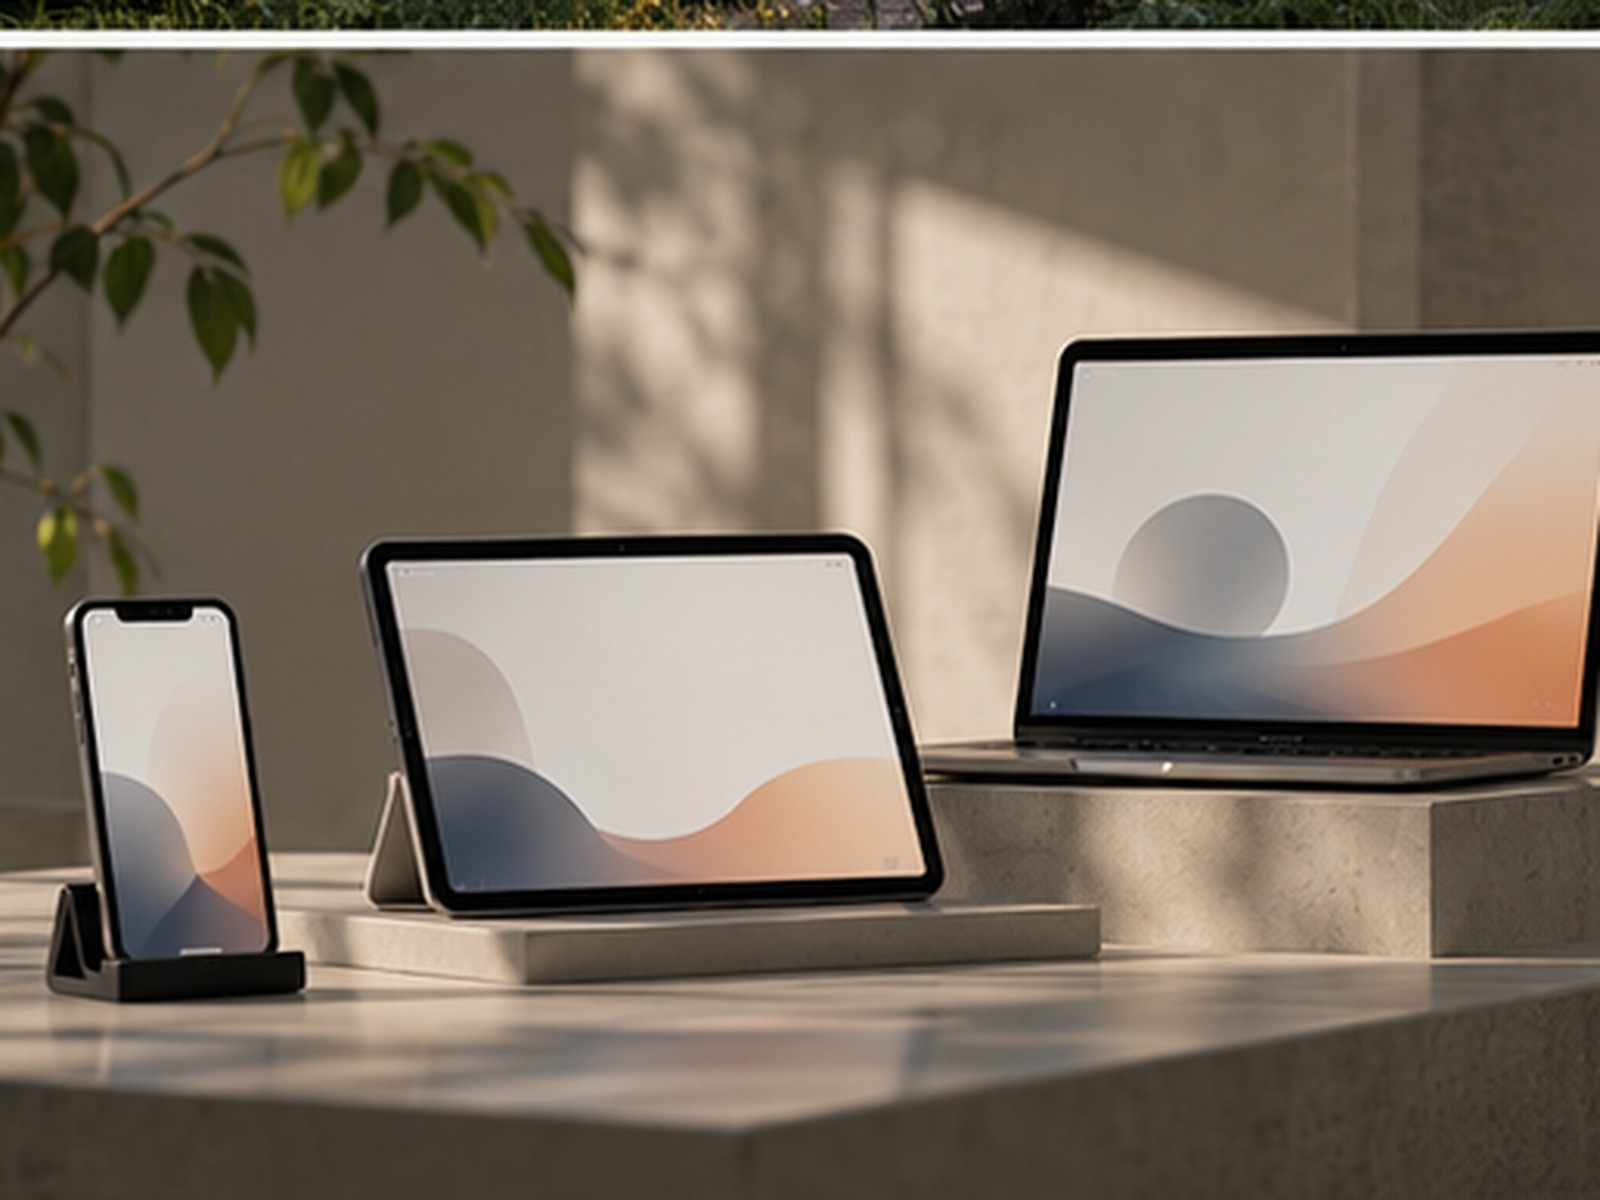
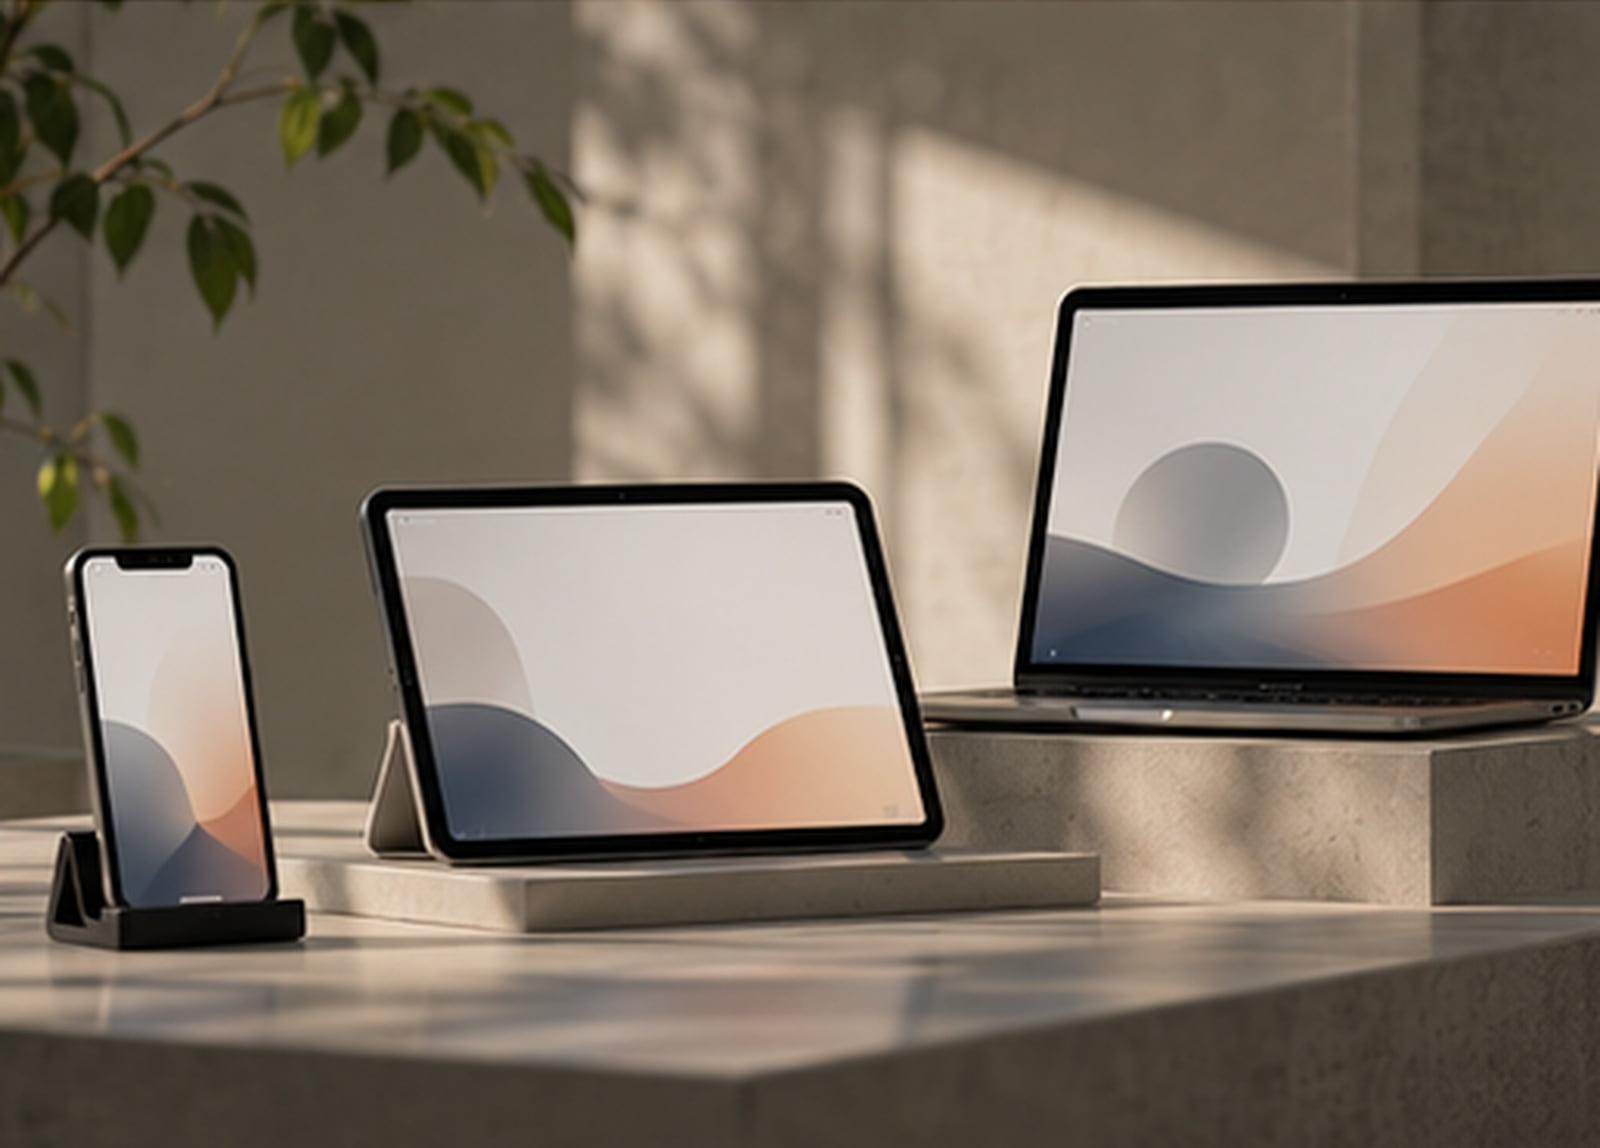
원본 이미지 외곽 경계 크롭
- APC 원본의 오른쪽 검은 영역과 왼쪽 흰 띠 제거
- Smart Farm·IndianBob·Emosave 원본 상단의 흰 경계와 이물 띠 제거
- 경계를 가리던 scale·origin 보정값 제거
- 크롭 후 IndianBob 핀을 실제 기기 위치로 조정

diff --git a/src/content/projects/smart-farm.ts b/src/content/projects/smart-farm.ts
@@ -8,7 +8,6 @@ import { smartFarmCase } from './smart-farm-case';
 const mainVisual = {
   src: '/images/projects/smart-farm/main.jpg',
   alt: '온실과 재배 환경을 표현한 개념 이미지',
-  scale: 1.06,
 };
 
 export const smartFarm: Project = {
@@ -72,7 +71,6 @@ export const smartFarm: Project = {
     sensor: {
       src: '/images/projects/smart-farm/sensor.jpg',
       sizes: '(min-width: 1440px) 310px, (min-width: 1024px) 25vw, 50vw',
-      scale: 1.08,
       id: VISUAL_ID.SMART_SENSOR,
       alt: '온실에 설치된 센서 장치를 표현한 개념 이미지',
       brief: 'sensor enclosure, 1:1',
@@ -80,8 +78,6 @@ export const smartFarm: Project = {
     equipment: {
       src: '/images/projects/smart-farm/equipment.jpg',
       sizes: '(min-width: 1440px) 310px, (min-width: 1024px) 25vw, 50vw',
-      scale: 1.3,
-      origin: '0% 60%',
       id: VISUAL_ID.SMART_EQUIPMENT,
       alt: '온실 환기팬을 표현한 개념 이미지',
       brief: 'fan / valve / vent, 1:1 · 4:5',

diff --git a/src/content/projects/indian-bob.ts b/src/content/projects/indian-bob.ts
@@ -7,7 +7,6 @@ import { indianBobCase } from './indian-bob-case';
 const mainVisual = {
   src: '/images/projects/indian-bob/main.jpg',
   alt: '모바일과 관리자 기기의 연결을 표현한 개념 이미지',
-  scale: 1.1,
 };
 
 export const indianBob: Project = {
@@ -49,20 +48,8 @@ export const indianBob: Project = {
       id: VISUAL_ID.INDIANBOB_HOME,
       brief: 'INDIAN BOB — mobile + admin surfaces, 4:3',
       pins: [
-        {
-          label: 'APP',
-          x: 12,
-          y: 28,
-          tablet: { x: 10, y: 26 },
-          hideOnMobile: true,
-        },
-        {
-          label: 'ADMIN',
-          x: 58,
-          y: 62,
-          tablet: { x: 56, y: 62 },
-          hideOnMobile: true,
-        },
+        { label: 'APP', x: 9, y: 41, hideOnMobile: true },
+        { label: 'ADMIN', x: 70, y: 29, hideOnMobile: true },
       ],
     },
     app: {

diff --git a/src/content/projects/apc.ts b/src/content/projects/apc.ts
@@ -7,8 +7,6 @@ import { apcCase } from './apc-case';
 const mainVisual = {
   src: '/images/projects/apc/main.jpg',
   alt: '농산물 처리 및 물류 환경을 표현한 개념 이미지',
-  scale: 1.28,
-  origin: '8% 50%',
 };
 
 export const apc: Project = {

diff --git a/src/content/projects/emosave.ts b/src/content/projects/emosave.ts
@@ -7,7 +7,6 @@ import { emosaveCase } from './emosave-case';
 const mainVisual = {
   src: '/images/projects/emosave/main.jpg',
   alt: '모듈형 마을 커스터마이징을 표현한 개념 이미지',
-  scale: 1.1,
 };
 
 export const emosave: Project = {
